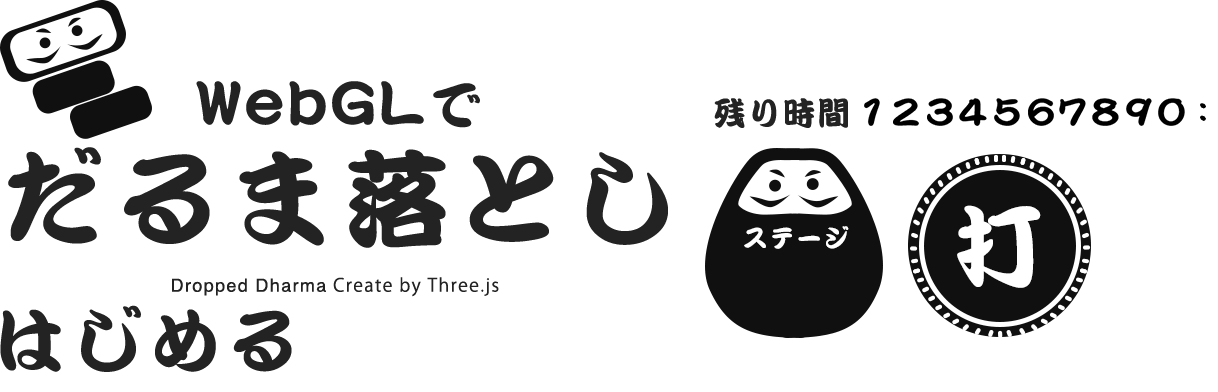
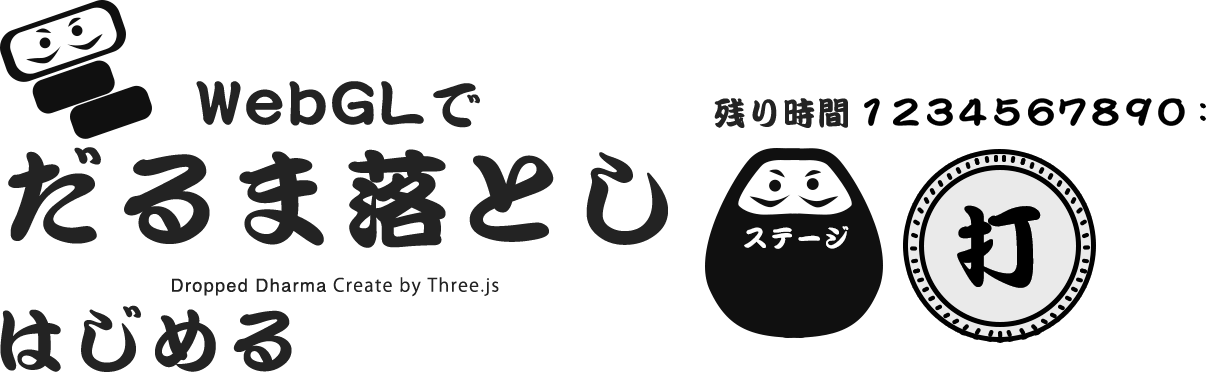
現状up

Changed region(s): [[0.7176, 0.3673, 0.9048, 0.8878]]

diff --git a/out/css/style.css b/out/css/style.css
@@ -1,1 +1,1 @@
-#window,#window #game{position:fixed}#window,#window #game,#window #game canvas,#window .stage{top:0;left:0;width:100%;height:100%}.loaded #window .loading,.titleend #window #title{opacity:0;pointer-events:none}*{margin:0;padding:0}#window{display:flex}#window #game canvas{position:absolute;background:#f5f5f5}#window .stage{position:absolute}#window .stage #lasttime{position:absolute;top:25px;left:100px}#window .stage #timeloader{position:absolute;top:45px;left:50%;width:90%;height:45px;transform:translate(-50%,0);border-radius:20px;overflow:hidden;border:3px solid #000;box-sizing:border-box;background:#f5f5f5}#window .stage #timeloader .gauge-wrap{position:absolute;top:5%;left:1%;width:98%;height:90%;background:#FFF;border-radius:20px;overflow:hidden}#window .stage #timeloader .gauge-wrap #gauge{position:absolute;top:0;left:0;width:0;height:100%;background:#000}#window .stage #shot{position:absolute;bottom:30px;right:30px}#window .stage #stageNumber{position:absolute;top:10px;left:10px}#window .stage #stageNumber .num10{position:absolute;bottom:10px;left:22px;width:20px;height:30px}#window .stage #stageNumber .num01{position:absolute;bottom:10px;left:46px;width:20px;height:30px}#window #title,#window .loading{position:absolute;width:100%;height:100%}#window #title{top:0;left:0;justify-content:center;background:#FFF;transition:.8s}#window #title .copyright{display:block;position:absolute;bottom:5px;left:0;width:100%;text-align:center;font-size:10px}#window #title #start{position:absolute;top:50%;left:50%;transform:translate(-50%,-50%)}#window .loading{display:flex;justify-content:center;align-items:center;top:0;left:0;background:#000;color:#FFF;transition:.4s}.img{display:block;background:url(../images/asset.png) no-repeat;background-size:609px 196px}.img#logo{background-position:0 0;width:334px;height:148px;margin:20px auto 0}.img#start{background-position:0 -152px;width:146px;height:35px}.img#stageNumber{background-position:-352px -74px;width:89px;height:95px}.img#lasttime{background-position:-357px -49px;width:67px;height:15px}.img#num0{background-position:-576px -10px;width:20px;height:21px}.img#num1{background-position:-357px -10px;width:12px;height:21px}.img#num2,.img#num3{width:19px;height:21px}.img#num2{background-position:-379px -10px}.img#num3{background-position:-404px -10px}.img#num4{background-position:-428px -10px;width:21px;height:21px}.img#num5{background-position:-454px -10px;width:19px;height:21px}.img#num6{background-position:-479px -10px;width:19px;height:21px}.img#num7,.img#num8{width:20px;height:21px}.img#num7{background-position:-502px -10px}.img#num8{background-position:-527px -10px}.img#num9{background-position:-552px -10px;width:19px;height:21px}.img#shot{background-position:-454px -77px;width:92px;height:92px}
+#window,#window #game{position:fixed}#window,#window #game,#window #game canvas,#window .stage{top:0;left:0;width:100%;height:100%}.loaded #window .loading,.titleend #window #title{opacity:0;pointer-events:none}*{margin:0;padding:0}#window{display:flex}#window #game canvas{position:absolute;background:#f5f5f5}#window .stage{position:absolute}#window .stage #lasttime{position:absolute;top:25px;left:100px}#window .stage #timeloader{position:absolute;top:45px;left:50%;width:90%;height:45px;transform:translate(-50%,0);border-radius:20px;overflow:hidden;border:3px solid #000;box-sizing:border-box;background:#f5f5f5}#window .stage #timeloader .gauge-wrap{position:absolute;top:5%;left:1%;width:98%;height:90%;background:#FFF;border-radius:20px;overflow:hidden}#window .stage #timeloader .gauge-wrap #gauge{position:absolute;top:0;left:0;width:0;height:100%;background:#000}#window .stage #shot{position:absolute;bottom:30px;right:30px}#window .stage #stageNumber{position:absolute;top:10px;left:10px}#window .stage #stageNumber .num10{position:absolute;bottom:10px;left:22px;width:20px;height:30px}#window .stage #stageNumber .num01{position:absolute;bottom:10px;left:46px;width:20px;height:30px}#window #title,#window .loading{position:absolute;width:100%;height:100%}#window #title{top:0;left:0;justify-content:center;background:#FFF;transition:.8s}#window #title .copyright{display:block;position:absolute;bottom:5px;left:0;width:100%;text-align:center;font-size:10px}#window #title #start{position:absolute;top:50%;left:50%;transform:translate(-50%,-50%)}#window .loading{display:flex;justify-content:center;align-items:center;top:0;left:0;background:#000;color:#FFF;transition:.4s}.img{display:block;background:url(../images/asset.png) no-repeat;background-size:609px 196px}.img#logo{background-position:0 0;width:334px;height:148px;margin:20px auto 0}.img#start{background-position:0 -152px;width:146px;height:35px}.img#stageNumber{background-position:-352px -74px;width:89px;height:95px}.img#lasttime{background-position:-357px -49px;width:67px;height:15px}.img#num0{background-position:-576px -10px;width:20px;height:21px}.img#num1{background-position:-357px -10px;width:12px;height:21px}.img#num2,.img#num3{width:19px;height:21px}.img#num2{background-position:-379px -10px}.img#num3{background-position:-404px -10px}.img#num4{background-position:-428px -10px;width:21px;height:21px}.img#num5{background-position:-454px -10px;width:19px;height:21px}.img#num6{background-position:-479px -10px;width:19px;height:21px}.img#num7,.img#num8{width:20px;height:21px}.img#num7{background-position:-502px -10px}.img#num8{background-position:-527px -10px}.img#num9{background-position:-552px -10px;width:19px;height:21px}.img#shot{background-position:-452px -74px;width:97px;height:97px}

diff --git a/out/js/app.js b/out/js/app.js
@@ -22,7 +22,7 @@
 			game.hammerAnimation = true;
 			itemList.hammer.rotation.y = 30*(Math.PI/180);
 			var tm = new TimelineMax({});
-			tm.to(itemList.hammer.rotation,0.5,{
+			tm.to(itemList.hammer.rotation,0.4,{
 				y:390*(Math.PI/180),
 				ease: Cubic.easeInOut,
 				onComplete:function(){
@@ -59,11 +59,14 @@
 	dom.game.appendChild(renderer.domElement);
 	//物理初期化
 	var world = new CANNON.World();
-	world.gravity.set(0, -9.82, 0);
+	world.gravity.set(0, -1, 0);
 	world.broadphase = new CANNON.NaiveBroadphase();
 	world.solver.iterations = 10;
-	world.solver.tolerance = 0.1;
-	var mass = 1, radius = 1;
+	world.solver.tolerance = 0.000001;
+	world.defaultContactMaterial.contactEquationStiffness = 5e6;
+	world.defaultContactMaterial.contactEquationRelaxation = 3;
+	var mass = 1;
+	//
 
 	//
 	/*//////////////////////////////////////
@@ -97,6 +100,10 @@
 			for(var v=0; v<stage[i].block; v++){
 				stageItem.addBlock(v);
 			}
+			var mat = new CANNON.ContactMaterial(materials.base, materials.block, { friction: 0.0, restitution: 0.0 });
+			world.addContactMaterial(mat);
+			var mat2 = new CANNON.ContactMaterial(materials.block, materials.block, { friction: 0.0, restitution: 0.0 });
+			world.addContactMaterial(mat2);
 			//UI初期化
 			ui.stageNum(i);
 			var o = this;
@@ -148,10 +155,17 @@
 	scene.add(itemList.block);
 	scene.add(itemList.base);
 
+	var materials = {
+		base:  new CANNON.Material(),
+		block: new CANNON.Material()
+	}
+
+
 	var stageItem = {
 		//ハンマー追加
 		addHammer:function(){
 			var hammer = new THREE.Object3D();
+			//ハンマーヘッド
 			var geometry = new THREE.CylinderBufferGeometry( 0.35, 0.35, 2, 27 );
 			var material = new THREE.MeshToonMaterial({
 				color: 0x333333
@@ -159,14 +173,16 @@
 			var cube = new THREE.Mesh( geometry, material );
 			cube.rotation.set(0,0,1.6);
 			hammer.add( cube );
+			//柄
 			var geometry = new THREE.BoxBufferGeometry( 0.2, 0.2, 5 );
-			var material = new THREE.MeshLambertMaterial( {color: 0x333333, wireframe:false} );
+			var material = new THREE.MeshLambertMaterial( {color: 0xf9ba82, wireframe:false} );
 			var cube = new THREE.Mesh( geometry, material );
 			cube.position.set(0,0,2);
 			hammer.add( cube );
 			hammer.position.set(0,1.3,10);
-
-			var sphereShape = new CANNON.Cylinder(0.12,0.12,1,27);
+			//当たり判定
+			//var sphereShape = new CANNON.Cylinder(0.12,0.12,1,27);
+			var sphereShape = new CANNON.Box(new CANNON.Vec3(1, 0.5, 0.5));
 			phyList.hammer = new CANNON.Body({mass:0, shape: sphereShape});
 			phyList.hammer.position.set(0,0,-5);
 			world.add(phyList.hammer);
@@ -184,15 +200,18 @@
 			var material = new THREE.MeshToonMaterial({
 				color: 0xff0000
 			});
-			var between = 1;
+			var between = 1.4;
 			var cylinder = new THREE.Mesh( geometry, material );
 			cylinder.position.set(0,(i+1)*between,0);
 			cylinder.castShadow = true;
 			itemList.block.add(cylinder);
 			//
-			var sphereShape = new CANNON.Cylinder(0.5,0.5,0.5,27);
-			phyList.block[i] = new CANNON.Body({mass: 10, shape: sphereShape});
+			//var sphereShape = new CANNON.Cylinder(0.5,0.5,0.5,27);
+			var sphereShape = new CANNON.Box(new CANNON.Vec3(0.5, 0.5, 0.5));
+			phyList.block[i] = new CANNON.Body({mass: 3, material: materials.block, shape: sphereShape});
 			phyList.block[i].position.set(0,(i+1)*between,0);
+			phyList.block[i].angularVelocity.set(0, 0, 0);
+			phyList.block[i].linearDamping = 0.01;
 			phyList.block[i].angularDamping = 1;
 			world.add(phyList.block[i]);
 		},
@@ -206,8 +225,7 @@
 			itemList.base.add(cube);
 
 			var shape = new CANNON.Box(new CANNON.Vec3(2.5, 0.5, 2.5));
-
-			var phyBox = new CANNON.Body({mass: 0, shape: shape});
+			var phyBox = new CANNON.Body({mass: 0, material:materials.base, shape: shape});
 			//phyBox.quaternion.setFromAxisAngle(new CANNON.Vec3(1, 0, 0), -Math.PI / 2);
 			phyBox.angularDamping = 1;
 			world.add(phyBox);

diff --git a/src/js/app.js b/src/js/app.js
@@ -22,7 +22,7 @@
 			game.hammerAnimation = true;
 			itemList.hammer.rotation.y = 30*(Math.PI/180);
 			var tm = new TimelineMax({});
-			tm.to(itemList.hammer.rotation,0.5,{
+			tm.to(itemList.hammer.rotation,0.4,{
 				y:390*(Math.PI/180),
 				ease: Cubic.easeInOut,
 				onComplete:function(){
@@ -59,11 +59,14 @@
 	dom.game.appendChild(renderer.domElement);
 	//物理初期化
 	var world = new CANNON.World();
-	world.gravity.set(0, -9.82, 0);
+	world.gravity.set(0, -1, 0);
 	world.broadphase = new CANNON.NaiveBroadphase();
 	world.solver.iterations = 10;
-	world.solver.tolerance = 0.1;
-	var mass = 1, radius = 1;
+	world.solver.tolerance = 0.000001;
+	world.defaultContactMaterial.contactEquationStiffness = 5e6;
+	world.defaultContactMaterial.contactEquationRelaxation = 3;
+	var mass = 1;
+	//
 
 	//
 	/*//////////////////////////////////////
@@ -97,6 +100,10 @@
 			for(var v=0; v<stage[i].block; v++){
 				stageItem.addBlock(v);
 			}
+			var mat = new CANNON.ContactMaterial(materials.base, materials.block, { friction: 0.0, restitution: 0.0 });
+			world.addContactMaterial(mat);
+			var mat2 = new CANNON.ContactMaterial(materials.block, materials.block, { friction: 0.0, restitution: 0.0 });
+			world.addContactMaterial(mat2);
 			//UI初期化
 			ui.stageNum(i);
 			var o = this;
@@ -148,10 +155,17 @@
 	scene.add(itemList.block);
 	scene.add(itemList.base);
 
+	var materials = {
+		base:  new CANNON.Material(),
+		block: new CANNON.Material()
+	}
+
+
 	var stageItem = {
 		//ハンマー追加
 		addHammer:function(){
 			var hammer = new THREE.Object3D();
+			//ハンマーヘッド
 			var geometry = new THREE.CylinderBufferGeometry( 0.35, 0.35, 2, 27 );
 			var material = new THREE.MeshToonMaterial({
 				color: 0x333333
@@ -159,14 +173,16 @@
 			var cube = new THREE.Mesh( geometry, material );
 			cube.rotation.set(0,0,1.6);
 			hammer.add( cube );
+			//柄
 			var geometry = new THREE.BoxBufferGeometry( 0.2, 0.2, 5 );
-			var material = new THREE.MeshLambertMaterial( {color: 0x333333, wireframe:false} );
+			var material = new THREE.MeshLambertMaterial( {color: 0xf9ba82, wireframe:false} );
 			var cube = new THREE.Mesh( geometry, material );
 			cube.position.set(0,0,2);
 			hammer.add( cube );
 			hammer.position.set(0,1.3,10);
-
-			var sphereShape = new CANNON.Cylinder(0.12,0.12,1,27);
+			//当たり判定
+			//var sphereShape = new CANNON.Cylinder(0.12,0.12,1,27);
+			var sphereShape = new CANNON.Box(new CANNON.Vec3(1, 0.5, 0.5));
 			phyList.hammer = new CANNON.Body({mass:0, shape: sphereShape});
 			phyList.hammer.position.set(0,0,-5);
 			world.add(phyList.hammer);
@@ -184,15 +200,18 @@
 			var material = new THREE.MeshToonMaterial({
 				color: 0xff0000
 			});
-			var between = 1;
+			var between = 1.4;
 			var cylinder = new THREE.Mesh( geometry, material );
 			cylinder.position.set(0,(i+1)*between,0);
 			cylinder.castShadow = true;
 			itemList.block.add(cylinder);
 			//
-			var sphereShape = new CANNON.Cylinder(0.5,0.5,0.5,27);
-			phyList.block[i] = new CANNON.Body({mass: 10, shape: sphereShape});
+			//var sphereShape = new CANNON.Cylinder(0.5,0.5,0.5,27);
+			var sphereShape = new CANNON.Box(new CANNON.Vec3(0.5, 0.5, 0.5));
+			phyList.block[i] = new CANNON.Body({mass: 3, material: materials.block, shape: sphereShape});
 			phyList.block[i].position.set(0,(i+1)*between,0);
+			phyList.block[i].angularVelocity.set(0, 0, 0);
+			phyList.block[i].linearDamping = 0.01;
 			phyList.block[i].angularDamping = 1;
 			world.add(phyList.block[i]);
 		},
@@ -206,8 +225,7 @@
 			itemList.base.add(cube);
 
 			var shape = new CANNON.Box(new CANNON.Vec3(2.5, 0.5, 2.5));
-
-			var phyBox = new CANNON.Body({mass: 0, shape: shape});
+			var phyBox = new CANNON.Body({mass: 0, material:materials.base, shape: shape});
 			//phyBox.quaternion.setFromAxisAngle(new CANNON.Vec3(1, 0, 0), -Math.PI / 2);
 			phyBox.angularDamping = 1;
 			world.add(phyBox);

diff --git a/src/css/style.scss b/src/css/style.scss
@@ -214,8 +214,8 @@
 		height: 21px;
 	}
 	&#shot{
-		background-position: -454px -77px;
-		width: 92px;
-		height: 92px;
+		background-position: -452px -74px;
+		width: 97px;
+		height: 97px;
 	}
 }
